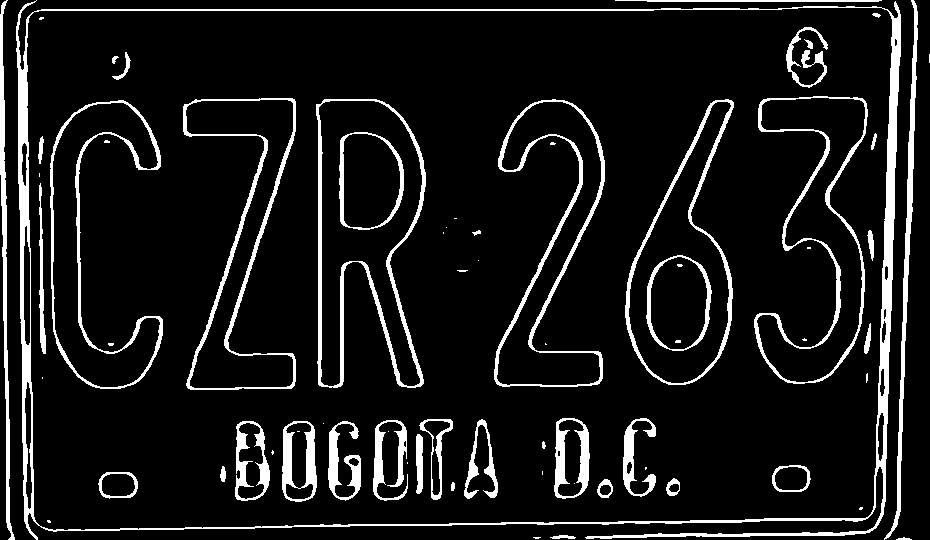
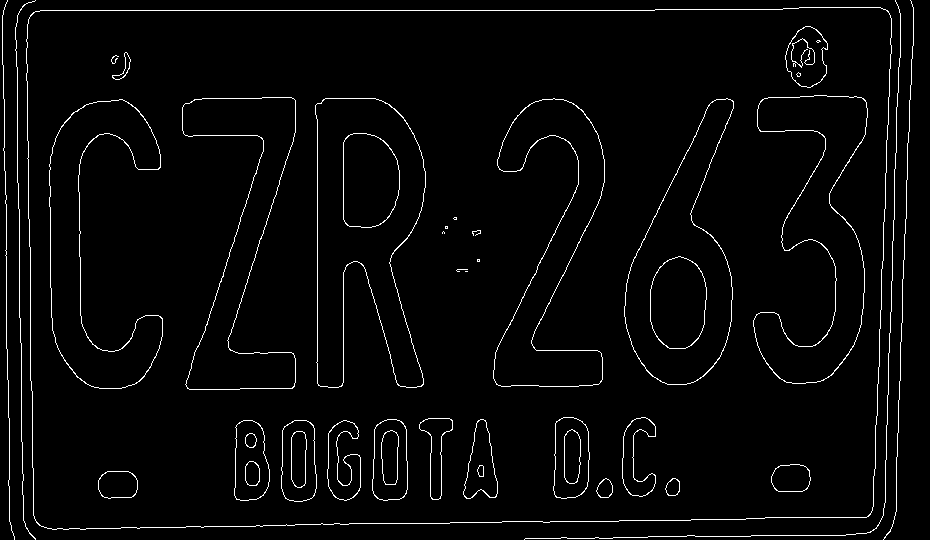
segmentation

diff --git a/python/edge_recognition.py b/python/edge_recognition.py
@@ -6,33 +6,35 @@ import cv2
 
 def edge_recognition(image_path:Path, image:np.ndarray, results_path: Path = Path().parent.absolute() / 'results' / 'edge_recognition'):
     image_name = image_path.name
-    result_image_path = results_path / image_name.replace('.jpg', '')
+    result_image_path = results_path / image_name.replace('.jpeg', '')
     if not result_image_path.exists(): makedirs(result_image_path)
     
     # Crear un negativo con los colores maximos de la imagen
     max_color_neg_img = np.array([[1-max(rgb) for rgb in img_row] for img_row in image/255])
 
     # Guardar como bmp para binarizar la imagen
-    bmp_path = result_image_path / image_name.replace('.jpg', '.bmp')
-    cv2.imwrite(str(bmp_path), max_color_neg_img)
+    bmp_path = result_image_path / image_name.replace('.jpeg', '.bmp')
+    cv2.imwrite(str(bmp_path), max_color_neg_img*255)
     bmp_image = cv2.imread(str(bmp_path))
     remove(bmp_path)
 
-    # Aplicacion de laplaciano para extraccion de bordes
-    bw2:np.ndarray = cv2.Canny(bmp_image, 0.01, 0.6)
+    # plt.plot(), plt.imshow(bmp_image), plt.title('Canny'), plt.show()
+
+    # Aplicacion de laplaciano para extraccion de bordes / No esta siendo utilizado
+    bw2:np.ndarray = cv2.Canny(bmp_image, 100, 200)
+    # plt.plot(), plt.imshow(bw2), plt.title('Canny'), plt.show()
 
     # Obtener Bordes de la imagen
     bmp_grayscale = sum(bmp_image[:,:,i] for i in range(3))/3 
     spec_img = get_contours(bmp_grayscale)
-    img = bw2
 
     # Binarizamos para tener el contorno de la imagen
-    ret, threshold = cv2.threshold(spec_img, 50, 255, 0)
+    # _, threshold = cv2.threshold(bw2, 0, 255, 0)
+    _, threshold = cv2.threshold(bw2, 50, 255, 0)
     img:np.ndarray = threshold
-    del ret
 
     # Guardamos la imagen
-    cv2.imwrite(str(result_image_path/image_name.replace('.jpg', '.png')),img)
+    cv2.imwrite(str(result_image_path/image_name.replace('.jpeg', '.png')),img)
 
     # Prueba -- Borrar
     # plt.subplot(221), plt.imshow(image), plt.title('ER. Imagen Inicial')
@@ -40,8 +42,6 @@ def edge_recognition(image_path:Path, image:np.ndarray, results_path: Path = Pat
     # plt.subplot(223), plt.imshow(bmp_grayscale*255), plt.title('Imagen Binarizada')
     # plt.subplot(224), plt.imshow(img), plt.title('Imagen Utilizando Filtrado de Frec')
     # plt.show()
-
-    print(img.shape, bw2.shape)
 
     return result_image_path, img
 
@@ -67,7 +67,7 @@ def get_contours(grayscale_img:np.ndarray) -> np.ndarray:
     # plt.subplot(2,2,4), plt.plot(spectrum_image_1d), plt.title('Espectro 1D a aplicar')
     # plt.show()
 
-    # Crear filtro unidimensional para la imagen
+    # Crear filtro bidimensional para la imagen
     frec_filter = get_2d_filter(grayscale_img)
     
     # Realizar la multiplicacion
@@ -89,18 +89,21 @@ def get_contours(grayscale_img:np.ndarray) -> np.ndarray:
     # plt.subplot(2,2,4), plt.imshow(ans), plt.title('Final Image')
     # plt.show()
 
-    print(ans.max())
-
     return ans
 
 def get_2d_filter(img:np.ndarray) -> np.ndarray:
     xf, yf = img.shape
     D = lambda x, y : ((x-xf/2)**2 + (y-yf/2)**2)**0.5
-    D0 = 40
-    high_bandstop_butterford = lambda x,y: 1 - 1/(1+(D(x,y)/D0)**(2*20))
+    D0 = 10
 
-    filter_kernel = np.array([[high_bandstop_butterford(x,y) for y in range(yf)] for x in range(xf)])
-    filter_kernel = filter_kernel * 1/filter_kernel.max()
+    highpass_butterford = lambda x,y: 1 - 1/(1+(D(x,y)/D0)**(2*50))
+    filter_kernel_b = np.array([[highpass_butterford(x,y) for y in range(yf)] for x in range(xf)])
+    
+    highpass_gaussian = lambda x,y: 1-np.exp(-D(x,y)**2/(2*D0**2))
+    filter_kernel_g = np.array([[highpass_gaussian(x,y) for y in range(yf)] for x in range(xf)])
+    
+
+    filter_kernel = filter_kernel_g * 1/filter_kernel_g.max()
 
     f_kernel = np.fft.fft2(filter_kernel)
     f_shift_kernel = np.fft.fft2(f_kernel)
@@ -116,7 +119,7 @@ def get_2d_filter(img:np.ndarray) -> np.ndarray:
 def get_1d_filter(img:np.ndarray) -> np.ndarray:
     xf, yf = img.flatten().shape
     D = lambda x, y : ((x-xf/2)**2 + (y-yf/2)**2)**0.5
-    D0 = 20
+    D0 = 10
     high_bandstop_butterford = lambda x,y: 1 - 1/(1+(D(x,y)/D0)**(2*20))
 
     filter_kernel = np.array([[high_bandstop_butterford(x,y) for y in range(yf)] for x in range(xf)])

diff --git a/python/pre_processing.py b/python/pre_processing.py
@@ -1,7 +1,9 @@
 from pathlib import Path
-
+from os import remove
 import numpy as np
 import cv2
+
+from matplotlib import pyplot as plt
 
 def pre_process_image(image_path:Path, results_path:Path = Path().parent / 'results' / 'pre_processing'):
     image_name = image_path.name
@@ -9,15 +11,60 @@ def pre_process_image(image_path:Path, results_path:Path = Path().parent / 'resu
 
     # Leemos la imagen
     image:np.ndarray = cv2.imread(image_path.__str__())
+    # cv2.imshow('pre processing', image)
+    # cv2.waitKey(1000)
 
     # Separamos la imagen por color
     r_img, g_img, b_img = (image[:,:,i] for i in range(2,-1,-1))
 
     # Definimos la combinacion rgb a trabajar
+    rg_img:np.ndarray = cv2.absdiff(r_img, g_img)
     gb_img:np.ndarray = cv2.absdiff(g_img, b_img)
+    br_img:np.ndarray = cv2.absdiff(b_img, r_img)
+    gray = cv2.cvtColor(image, cv2.COLOR_RGB2GRAY)
+
+    # cv2.imshow('Gray Image', gray)
+    # cv2.waitKey()
+    # cv2.destroyAllWindows()
+    # print(gray)
 
     # Binarizacion inicial de la imagen
-    bin_img = np.uint8(gb_img>=80)*255
+    bin_img = np.uint8(gray>=150)*255
+
+    gray = cv2.blur(bin_img,(3,3))
+    canny = cv2.Canny(gray,150,200)
+    canny = cv2.dilate(canny,None,iterations=1)
+
+    cnts,_ = cv2.findContours(canny,cv2.RETR_LIST,cv2.CHAIN_APPROX_SIMPLE)
+    # cv2.drawContours(image,cnts,-1,(0,255,0),2)
+
+    valid_boxes = []
+    for c in cnts:
+        area = cv2.contourArea(c)
+        x,y,w,h = cv2.boundingRect(c)
+        epsilon = 0.05*cv2.arcLength(c,True)
+        approx = cv2.approxPolyDP(c,epsilon,True)
+        ratio = float(w)/h
+
+        if len(approx)==4 and area>2000 and ratio>2:
+            valid = cv2.boundingRect(c)
+            valid_boxes.append(valid)
+
+    area = lambda box : box[2]*box[3]
+    valid_boxes.sort(key=area)
+    box = valid_boxes[0]
+
+    get_masked_image = lambda img, box: img[box[1] : box[1]+box[3], box[0] : box[0]+box[2], :]
+    result_image = get_masked_image(image, box)
+
+    # Guardar imagen
+    cv2.imwrite(result_image_path.__str__(), result_image)
+
+    return result_image_path, result_image
+
+    cv2.imshow('pre processing', result_image)
+    cv2.waitKey()
+    cv2.destroyAllWindows()
 
     # Transformacion Morfologica
     closing_streel = np.ones((50,50), np.uint8)
@@ -32,7 +79,7 @@ def pre_process_image(image_path:Path, results_path:Path = Path().parent / 'resu
     del hierarchy
 
     # Calcular rectangulo mas grande
-    boxes = np.array([cv2.boundingRect(contours[i]) for i in range(len(contours))])
+    boxes = np.array([cv2.boundingRect(contour) for contour in contours])
     area = lambda box: (box[2]-box[0])*(box[3]-box[1])
     max_box = max(boxes, key=area)
 

diff --git a/python/segmentation.py b/python/segmentation.py
@@ -13,36 +13,48 @@ def segmentation(image_path:Path, image_tresh:np.ndarray, results_path: Path = P
     result_image_path = results_path / image_name.replace('.jpg', '')
     if not result_image_path.exists(): mkdir(result_image_path)
 
-    plt.plot(), plt.imshow(image_tresh), plt.title('Segmentation img.')
+    # Se generan las cajas para identificar las zonas de interes
+    plt.subplot(1,2,1), plt.imshow(image_tresh), plt.title('seg')
+    image_to_tresh = cv2.dilate(image_tresh[:],None,iterations=2)
+    
+    plt.subplot(1,2,2), plt.imshow(image_to_tresh), plt.title('seg')
     plt.show()
 
-    # Se generan las cajas para identificar las zonas de interes
-    threshold = cv2.convertScaleAbs(image_tresh/255)
+    threshold = cv2.convertScaleAbs(image_to_tresh/255)
     contours, hierarchy = cv2.findContours(threshold, cv2.RETR_TREE, cv2.CHAIN_APPROX_SIMPLE)
     del hierarchy
+
+    # cv2.drawContours(threshold, contours, -1, (0, 255, 0), 0.5)
+    # plt.plot(), plt.imshow(image_tresh), plt.title('seg'), plt.show()
 
     # Calcular rectangulo mas grande
     threshold:np.ndarray
     L, A = threshold.shape
     boxes = np.array([cv2.boundingRect(contours[i]) for i in range(len(contours))])
-    
+    boxes = list(filter(lambda box: len(box)==4, boxes))
+
     # Filtro de las cajas, que deben cumplir la condicion especifica
     valid_box_condition = lambda box: box[3]>0.4*L and box[3]<=0.7*L and box[2] > 0.08*A and box[2] <= 0.17*A
     valid_boxes = np.array(list(filter(valid_box_condition, boxes)))
     
     # Se eliminan duplicados haciendo un set y selecciono los 6 primeros
     valid_boxes = np.array(list({tuple(box) for box in valid_boxes}))
-    valid_boxes = valid_boxes[:6]
+    valid_boxes:list = list(valid_boxes)
+
+    # Ordenar las cajas por su posicion en la imagen
+    x_pos = lambda box: box[0]
+    valid_boxes.sort(key=x_pos)
+    print(valid_boxes)
 
     # Aplicar las mascaras a la imagen
     get_masked_image = lambda img, box: img[box[1] : box[1]+box[3], box[0] : box[0]+box[2]]
-    masked_images_list = [get_masked_image(threshold, box) for box in valid_boxes]
+    masked_images_list = [get_masked_image(image_tresh, box) for box in valid_boxes]
+    
 
     # Guardo las imagenes en una carpeta con el nombre del archivo
     for num, img in enumerate(masked_images_list):
-        print(image_name, img.max())
         cv2.imwrite(str(result_image_path/f'{image_name}_{num+1}.png'),img*255)
         plt.subplot(1, len(masked_images_list), num+1), plt.imshow(img)
-    plt.show()
+    plt.suptitle("Segmentation"), plt.show()
 
     return result_image_path, masked_images_list

diff --git a/python/main.py b/python/main.py
@@ -1,16 +1,18 @@
 from .pre_processing import pre_process_image, Path
 from .edge_recognition import edge_recognition
 from .segmentation import segmentation
-from .filtering import filtering
+from .classification import classification
 
 def run() -> None:
     main_path = Path().parent
     images_path = main_path/'images'
 
-    for image_path in images_path.iterdir():
+    for image_path in images_path.glob('*.jpeg'):
+        print(image_path.name)
         processed_img_dir, processed_img = pre_process_image(image_path)
         edge_img_dir, edge_img = edge_recognition(processed_img_dir, processed_img)
         segmentated_img_folder, masked_images = segmentation(edge_img_dir, edge_img)
-        filtering(segmentated_img_folder, masked_images)
+        result:int = classification(segmentated_img_folder, masked_images)
+        print(result)
 
     return None

diff --git a/python/classification.py b/python/classification.py
@@ -1,0 +1,14 @@
+import numpy as np
+from pathlib import Path
+from os import makedirs
+
+
+
+def classification(image_path: Path, image:np.ndarray, results_path: Path = Path().parent / 'results' / 'classification') -> int:
+    image_name = image_path.name.replace('.jpg', '')
+    results_image_path = results_path/image_name
+    if not results_image_path.exists(): makedirs(results_image_path)
+
+    result = 123
+    return result
+
